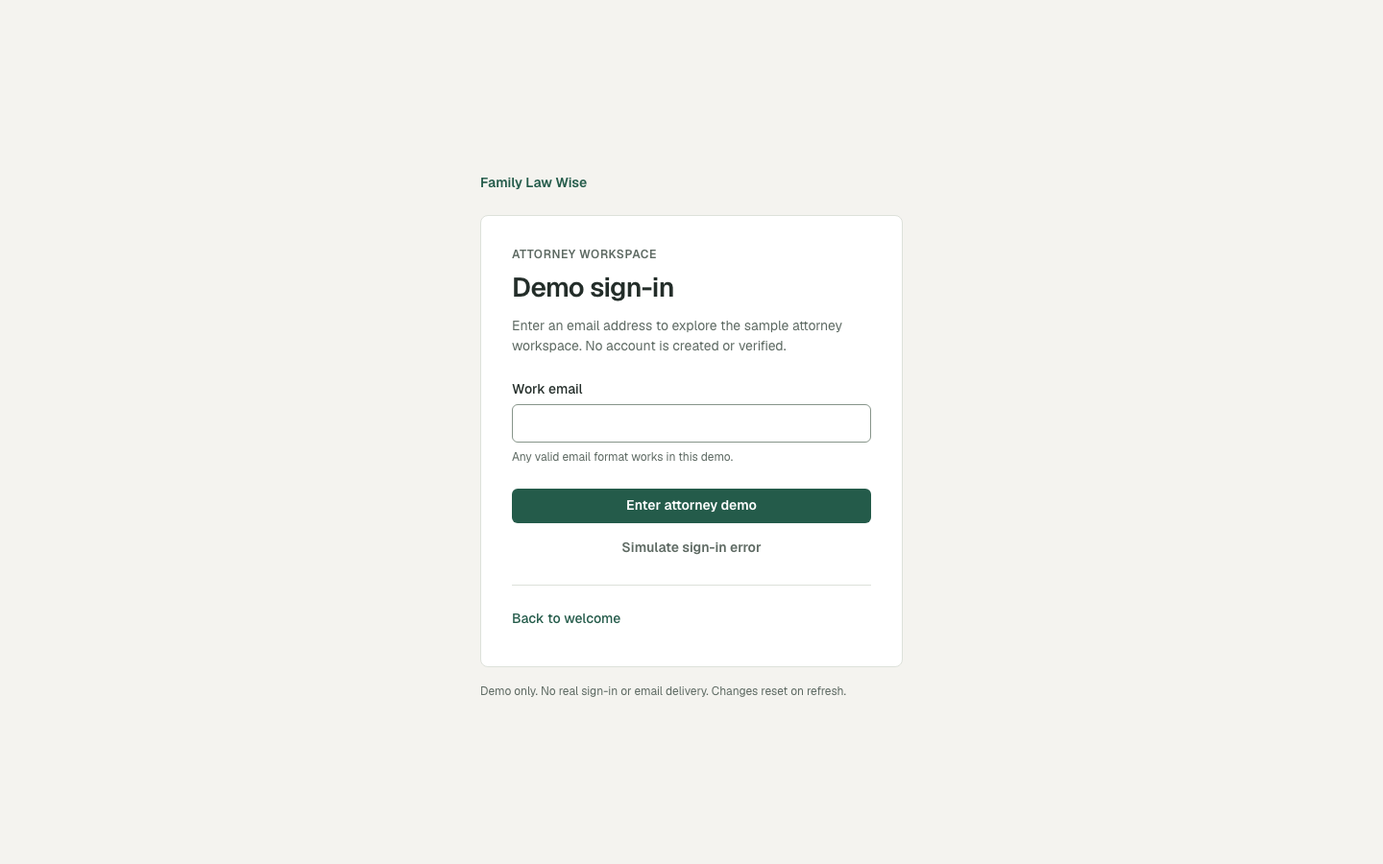
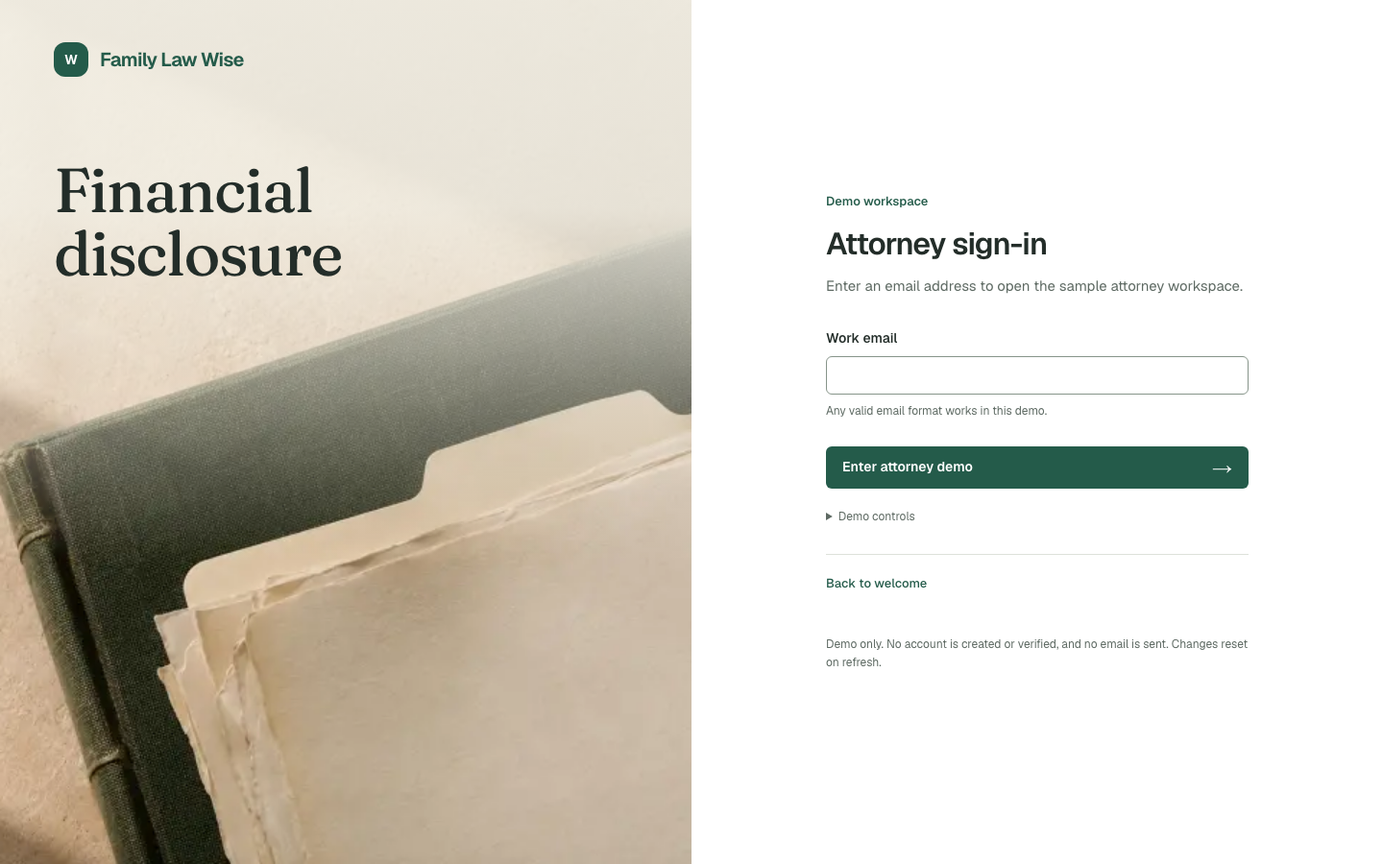
DESK-03: compose attorney sign-in and client invitation as focused desktop entries
Completed actions:
- Replace the centered stack with an editorial attorney sign-in, original still life, existing W branding, and a 440px task column.
- Move client firm, matter, and recipient context to the left while keeping code entry and recovery together on the right.
- Use 44px primary actions; place attorney QA simulation in keyboard-accessible Demo controls with Escape focus recovery.
- Refresh all 12 after screenshots; retain authentic original baselines and immutable previous PR evidence.

Verification performed:
- npm test: 43 passed; npm run lint, npm run build, git diff --check passed.
- Chromium: attorney empty/malformed/simulated error, keyboard retry; request/wrong/expired/reset client code; matching John/Sarah portals; invalid-link recovery.
- Native disclosure keyboard/Escape focus recovery; 440px task/40px input/44px primary; stable action within validation states.
- No horizontal overflow across 320, 375, 414, 768, 1280, 1440, 1920 widths; CSS 200 percent zoom resilience.
- Independent full-size desktop design and interaction review; compact photograph contrast corrected.

Remaining work and backend dependencies:
- Real authentication, invitation validity, OTP delivery/expiry enforcement, and email remain backend-owned.
- Browser-memory demo behavior remains; native browser zoom, Safari and Firefox were not rerun for this revision.

diff --git a/src/components/client-invitation.tsx b/src/components/client-invitation.tsx
@@ -1,6 +1,7 @@
 "use client";
 
 import Link from "next/link";
+import "./entry.css";
 import { useRouter } from "next/navigation";
 import { useEffect, useRef, useState, type FormEvent } from "react";
 import { Button } from "@/components/ui";
@@ -26,7 +27,7 @@ export function ClientInvitation({ token }: { token: string }) {
     setExpired(false);
     setCode("");
     setError("");
-    setMessage("Demo code ready: 123456. No email was sent.");
+    setMessage("Demo code is ready. No email was sent.");
     codeRef.current?.focus();
   }
 
@@ -48,27 +49,39 @@ export function ClientInvitation({ token }: { token: string }) {
   }
 
   return (
-    <main className="flex min-h-screen flex-col justify-center bg-canvas px-6 py-8">
-      <div className="mx-auto w-full max-w-[440px]">
-        <Link href="/" className="inline-flex min-h-9 items-center text-sm font-semibold text-brand">Family Law Wise</Link>
-        <section className="card mt-4 p-8">
-          <p className="text-xs font-semibold uppercase tracking-wider text-muted">Client invitation demo</p>
+    <main className="entry-entry">
+      <aside className="entry-orientation" aria-label="Invitation details">
+        <Link href="/" className="entry-wordmark"><span className="entry-brandMark" aria-hidden="true">W</span>Family Law Wise</Link>
+        <div className="entry-invitationIdentity">
+          <p className="entry-contextLabel">Client invitation</p>
           {matter ? (
             <>
-              <h1 className="mt-2 text-[28px] leading-9 font-semibold tracking-tight">You’re invited</h1>
-              <p className="mt-3 text-sm leading-[21px] text-muted">Review the sample invitation, then use a demo code to enter this matter.</p>
-              <dl className="mt-5 divide-y divide-line border-y border-line text-sm leading-[21px]">
-                <div className="grid grid-cols-[88px_minmax(0,1fr)] gap-3 py-3"><dt className="text-xs leading-[21px] text-muted">Law firm</dt><dd className="break-words font-medium">{state.firm.name}</dd></div>
-                <div className="grid grid-cols-[88px_minmax(0,1fr)] gap-3 py-3"><dt className="text-xs leading-[21px] text-muted">Matter</dt><dd className="break-words font-medium">{matterTitle(matter)}</dd></div>
-                <div className="grid grid-cols-[88px_minmax(0,1fr)] gap-3 py-3"><dt className="text-xs leading-[21px] text-muted">Invited client</dt><dd><span className="block break-words font-medium">{personName(clientParty(matter))}</span><span className="block break-all text-xs leading-[18px] text-muted">{clientParty(matter)?.email || "No email on file"}</span></dd></div>
+              <h2 className="entry-firmName">{state.firm.name || "Law firm details pending"}</h2>
+              <dl className="entry-identityList">
+                <div><dt>Matter</dt><dd>{matterTitle(matter)}</dd></div>
+                <div><dt>Invited client</dt><dd>{personName(clientParty(matter))}<span className="entry-recipientEmail">{clientParty(matter)?.email || "No email on file"}</span></dd></div>
               </dl>
-              <p id="demo-code-hint" className="mt-5 text-xs leading-[18px] text-muted">Sample code: <strong className="font-mono text-foreground">123456</strong>. This is a simulated check, and does not protect access to the demo.</p>
+            </>
+          ) : (
+            <h2 className="entry-editorialTitle">Let’s find your invitation.</h2>
+          )}
+        </div>
+        <p className="entry-identityFooter">Your invitation connects you to your attorney’s matter.</p>
+      </aside>
+      <div className="entry-taskSide">
+        <section className="entry-task" aria-labelledby="entry-title">
+          {matter ? (
+            <>
+              <p className="entry-contextLabel">Client demo</p>
+              <h1 id="entry-title" className="entry-taskTitle">You’re invited</h1>
+              <p className="entry-taskCopy">Check the invitation details, then use a demo code to open your matter.</p>
+              <div id="demo-code-hint" className="entry-sampleCode"><span>Sample code</span><strong>123456</strong></div>
               {!requested ? (
-                <Button variant="primary" className="mt-5 w-full" onClick={resetCode}>Request demo code</Button>
+                <Button variant="primary" className="entry-primary" onClick={resetCode}>Request demo code<span aria-hidden="true">→</span></Button>
               ) : (
-                <form className="mt-5" onSubmit={verify} noValidate>
+                <form className="entry-codeForm" onSubmit={verify} noValidate>
                   <div>
-                    <label htmlFor="invitation-code" className="mb-1.5 block text-sm font-medium">Six-digit demo code</label>
+                    <label htmlFor="invitation-code" className="entry-label">Six-digit demo code</label>
                     <input
                       ref={codeRef}
                       id="invitation-code"
@@ -82,14 +95,14 @@ export function ClientInvitation({ token }: { token: string }) {
                       aria-invalid={Boolean(error)}
                       aria-describedby={`demo-code-hint${error ? " invitation-code-error" : ""}`}
                     />
-                    <div className="mt-1.5 min-h-[42px] text-xs leading-[18px]">
+                    <div className="entry-fieldHelp">
                       {error ? <p id="invitation-code-error" role="alert" className="text-error-text">{error}</p> : <p className="text-muted">Enter the sample code above to continue.</p>}
                     </div>
                   </div>
-                  <Button type="submit" variant="primary" className="w-full">Enter client demo</Button>
-                  <div className="mt-2 flex flex-wrap justify-between gap-x-2">
-                    <Button type="button" variant="ghost" className="px-0" onClick={resetCode}>Reset demo code</Button>
-                    <Button type="button" variant="ghost" className="px-0" onClick={() => {
+                  <Button type="submit" variant="primary" className="entry-primary">Enter client demo<span aria-hidden="true">→</span></Button>
+                  <div className="entry-recovery">
+                    <Button type="button" variant="ghost" className="entry-reset" onClick={resetCode}>Reset demo code</Button>
+                    <Button type="button" variant="ghost" className="entry-simulation" onClick={() => {
                       setExpired(true);
                       setError("This demo code has expired. Reset the demo code to continue.");
                       setMessage("");
@@ -98,20 +111,22 @@ export function ClientInvitation({ token }: { token: string }) {
                   </div>
                 </form>
               )}
-              <p role="status" className="mt-3 min-h-[18px] text-xs leading-[18px] text-brand">{message}</p>
-              <div className="mt-4 border-t border-line pt-3">
-                <Link href={`/matters/${encodeURIComponent(token)}`} className="inline-flex min-h-9 items-center text-sm font-medium text-brand">Demo: back to attorney matter</Link>
+              <p role="status" className="entry-status">{message}</p>
+              <div className="entry-returnLink">
+                <Link href={`/matters/${encodeURIComponent(token)}`}>Demo: back to attorney matter</Link>
               </div>
             </>
           ) : (
             <>
-              <h1 className="mt-2 text-[28px] leading-9 font-semibold tracking-tight">Invitation not found</h1>
-              <p className="mt-3 text-sm leading-[21px] text-muted">This link does not match a matter in the current demo. Open your original invitation, or ask your law firm for a fresh link. Newly created demo matters reset on refresh.</p>
-              <Link href="/matters" className="btn btn-primary mt-6 w-full">Demo: back to matters</Link>
+              <p className="entry-contextLabel">Client demo</p>
+              <h1 id="entry-title" className="entry-taskTitle">Invitation not found</h1>
+              <p className="entry-taskCopy">This link does not match a matter in the current demo. Open your original invitation, or ask your law firm for a fresh link.</p>
+              <p className="entry-missingHint">Newly created demo matters reset on refresh.</p>
+              <Link href="/matters" className={`btn btn-primary entry-primary`}>Demo: back to matters<span aria-hidden="true">→</span></Link>
             </>
           )}
         </section>
-        <p className="mt-4 text-xs leading-[18px] text-muted">Demo only. No real sign-in or email delivery. Changes reset on refresh.</p>
+        <p className="entry-disclosure">Demo only. The code does not verify identity or protect access. No email is sent. Changes reset on refresh.</p>
       </div>
     </main>
   );

diff --git a/src/components/entry.css b/src/components/entry.css
@@ -1,0 +1,151 @@
+.entry-entry {
+  display: grid;
+  grid-template-columns: minmax(0, 1fr) minmax(0, 1fr);
+  min-height: 100dvh;
+  background: var(--surface);
+}
+
+.entry-orientation {
+  display: flex;
+  flex-direction: column;
+  min-width: 0;
+  padding: 40px 56px 0;
+  background: var(--canvas);
+}
+
+.entry-wordmark {
+  display: inline-flex;
+  align-items: center;
+  gap: 12px;
+  align-self: flex-start;
+  padding: 4px 0;
+  color: var(--brand);
+  font-size: 20px;
+  font-weight: 650;
+  letter-spacing: -0.7px;
+}
+
+.entry-brandMark { display: grid; width: 36px; height: 36px; place-items: center; border-radius: 12px; background: var(--brand); color: var(--surface); font-size: 14px; letter-spacing: 0; }
+.entry-demoControls { margin-top: 8px; }
+.entry-demoControls summary { display: list-item; width: fit-content; min-height: 44px; padding-top: 12px; color: var(--muted); cursor: pointer; font-size: 12px; }
+.entry-demoControls summary:focus-visible { outline: 2px solid var(--focus); outline-offset: 2px; }
+
+.entry-attorneyIntro { margin: 80px 0 36px; }
+
+.entry-contextLabel {
+  margin-bottom: 14px;
+  color: var(--muted);
+  font-size: 13px;
+  font-weight: 550;
+}
+
+.entry-editorialTitle,
+.entry-firmName {
+  max-width: 540px;
+  font-family: var(--font-fraunces), Georgia, serif;
+  font-size: 44px;
+  font-weight: 450;
+  letter-spacing: -1.5px;
+  line-height: 1.14;
+  overflow-wrap: anywhere;
+  text-wrap: balance;
+}
+
+.entry-photograph {
+  position: relative;
+  flex: 1;
+  min-height: 260px;
+  margin: 0 -56px;
+  overflow: clip;
+}
+
+.entry-taskSide {
+  display: flex;
+  flex-direction: column;
+  align-items: center;
+  justify-content: center;
+  min-width: 0;
+  padding: 48px;
+}
+
+.entry-task { width: 100%; max-width: 440px; }
+.entry-task .entry-contextLabel { color: var(--brand); }
+
+.entry-taskTitle {
+  font-size: 32px;
+  font-weight: 600;
+  letter-spacing: -1px;
+  line-height: 40px;
+  text-wrap: balance;
+}
+
+.entry-taskCopy {
+  margin-top: 12px;
+  color: var(--muted);
+  font-size: 15px;
+  line-height: 24px;
+  text-wrap: pretty;
+}
+
+.entry-form { margin-top: 32px; }
+.entry-label { display: block; margin-bottom: 8px; font-size: 14px; font-weight: 550; }
+.entry-fieldHelp { min-height: 54px; padding-top: 8px; font-size: 12px; line-height: 18px; }
+.entry-primary { width: 100%; height: 44px; justify-content: space-between; padding: 0 16px; }
+.entry-primary span { font-size: 20px; font-weight: 400; }
+.entry-simulation { height: 44px; padding: 0; font-size: 12px; font-weight: 450; }
+.entry-simulation:hover { background: transparent; text-decoration: underline; }
+.entry-returnLink { margin-top: 16px; border-top: 1px solid var(--line); padding-top: 8px; }
+.entry-returnLink a { display: inline-flex; min-height: 44px; align-items: center; color: var(--brand); font-size: 13px; font-weight: 500; }
+.entry-returnLink a:hover { text-decoration: underline; }
+.entry-disclosure { width: 100%; max-width: 440px; margin-top: 32px; color: var(--muted); font-size: 12px; line-height: 19px; }
+
+.entry-invitationIdentity { margin-top: auto; margin-bottom: auto; padding: 64px 0; }
+.entry-identityList { margin-top: 40px; border-top: 1px solid var(--line); }
+.entry-identityList > div { display: grid; grid-template-columns: 104px minmax(0, 1fr); gap: 24px; border-bottom: 1px solid var(--line); padding: 24px 0; }
+.entry-identityList dt { padding-top: 3px; color: var(--muted); font-size: 13px; }
+.entry-identityList dd { min-width: 0; font-size: 18px; font-weight: 500; overflow-wrap: anywhere; }
+.entry-recipientEmail { display: block; margin-top: 4px; color: var(--muted); font-size: 14px; font-weight: 400; }
+.entry-identityFooter { padding-bottom: 40px; color: var(--muted); font-size: 13px; }
+.entry-sampleCode { display: flex; align-items: center; justify-content: space-between; margin: 28px 0 24px; padding: 12px 16px; background: var(--surface-subtle); color: var(--muted); font-size: 13px; }
+.entry-sampleCode strong { color: var(--foreground); font-family: var(--font-mono); font-size: 20px; font-weight: 500; letter-spacing: 4px; }
+.entry-recovery { display: flex; justify-content: space-between; flex-wrap: wrap; gap: 0 16px; margin-top: 8px; }
+.entry-reset { height: 44px; padding: 0; color: var(--brand); font-size: 13px; font-weight: 500; }
+.entry-reset:hover { background: transparent; text-decoration: underline; }
+.entry-status { min-height: 18px; margin-top: 8px; color: var(--brand); font-size: 12px; line-height: 18px; }
+.entry-missingHint { margin: 20px 0 28px; color: var(--muted); font-size: 13px; line-height: 21px; }
+
+@media (min-width: 900px) {
+  .entry-attorneyOrientation { position: relative; isolation: isolate; overflow: clip; }
+  .entry-attorneyOrientation .entry-photograph { position: absolute; inset: 0; min-height: 100%; margin: 0; z-index: -1; }
+  .entry-photograph img { object-position: 60% 50%; }
+  .entry-photograph::after { content: ""; position: absolute; inset: 0; background: linear-gradient(180deg, #f2efe5f2 0%, #f2efe5e6 24%, #f2efe594 40%, #f2efe500 65%); }
+  .entry-attorneyIntro { margin-top: clamp(70px, 9vh, 130px); }
+  .entry-attorneyIntro .entry-editorialTitle { max-width: 9ch; font-size: clamp(54px, 4.5vw, 68px); line-height: 1.02; }
+}
+
+@media (min-width: 1600px) {
+  .entry-orientation { padding-right: 80px; padding-left: 80px; }
+  .entry-photograph { margin-right: -80px; margin-left: -80px; }
+}
+
+@media (max-width: 1100px) {
+  .entry-orientation { padding-right: 32px; padding-left: 32px; }
+  .entry-photograph { margin-right: -32px; margin-left: -32px; }
+  .entry-editorialTitle, .entry-firmName { font-size: 36px; }
+  .entry-taskSide { padding-right: 32px; padding-left: 32px; }
+  .entry-identityList > div { grid-template-columns: 88px minmax(0, 1fr); gap: 16px; }
+}
+
+@media (max-width: 899px) {
+  .entry-entry { grid-template-columns: minmax(0, 1fr); }
+  .entry-orientation { padding: 24px; }
+  .entry-attorneyIntro { display: none; }
+  .entry-editorialTitle, .entry-firmName { font-size: 32px; letter-spacing: -1px; }
+  .entry-photograph { display: none; }
+  .entry-invitationIdentity { padding: 32px 0 0; }
+  .entry-identityList { margin-top: 24px; }
+  .entry-identityList > div { padding: 16px 0; }
+  .entry-identityFooter { display: none; }
+  .entry-taskSide { padding: 40px 24px; }
+  .entry-disclosure { margin-top: 32px; }
+}

diff --git a/src/components/attorney-sign-in.tsx b/src/components/attorney-sign-in.tsx
@@ -1,6 +1,8 @@
 "use client";
 
 import Link from "next/link";
+import Image from "next/image";
+import "./entry.css";
 import { useRouter } from "next/navigation";
 import { useRef, useState, type FormEvent } from "react";
 import { Button } from "@/components/ui";
@@ -22,16 +24,24 @@ export function AttorneySignIn() {
   }
 
   return (
-    <main className="flex min-h-screen flex-col justify-center bg-canvas px-6 py-8">
-      <div className="mx-auto w-full max-w-[440px]">
-        <Link href="/" className="inline-flex min-h-9 items-center text-sm font-semibold text-brand">Family Law Wise</Link>
-        <section className="card mt-4 p-8">
-          <p className="text-xs font-semibold uppercase tracking-wider text-muted">Attorney workspace</p>
-          <h1 className="mt-2 text-[28px] leading-9 font-semibold tracking-tight">Demo sign-in</h1>
-          <p className="mt-3 text-sm leading-[21px] text-muted">Enter an email address to explore the sample attorney workspace. No account is created or verified.</p>
-          <form className="mt-6" onSubmit={submit} noValidate>
+    <main className="entry-entry">
+      <aside className="entry-orientation entry-attorneyOrientation" aria-label="Family Law Wise">
+        <Link href="/" className="entry-wordmark"><span className="entry-brandMark" aria-hidden="true">W</span>Family Law Wise</Link>
+        <div className="entry-attorneyIntro">
+          <h2 className="entry-editorialTitle">Financial disclosure</h2>
+        </div>
+        <div className="entry-photograph">
+          <Image src="/entry-still-life.webp" alt="" fill sizes="(min-width: 900px) 50vw, 100vw" priority className="object-cover" />
+        </div>
+      </aside>
+      <div className="entry-taskSide">
+        <section className="entry-task" aria-labelledby="entry-title">
+          <p className="entry-contextLabel">Demo workspace</p>
+          <h1 id="entry-title" className="entry-taskTitle">Attorney sign-in</h1>
+          <p className="entry-taskCopy">Enter an email address to open the sample attorney workspace.</p>
+          <form className="entry-form" onSubmit={submit} noValidate>
             <div>
-              <label htmlFor="attorney-email" className="mb-1.5 block text-sm font-medium">Work email</label>
+              <label htmlFor="attorney-email" className="entry-label">Work email</label>
               <input
                 ref={emailRef}
                 id="attorney-email"
@@ -43,21 +53,29 @@ export function AttorneySignIn() {
                 aria-invalid={Boolean(error)}
                 aria-describedby={error ? "sign-in-error" : "sign-in-hint"}
               />
-              <div className="mt-1.5 min-h-[42px] text-xs leading-[18px]">
+              <div className="entry-fieldHelp">
                 {error ? <p id="sign-in-error" role="alert" className="text-error-text">{error}</p> : <p id="sign-in-hint" className="text-muted">Any valid email format works in this demo.</p>}
               </div>
             </div>
-            <Button type="submit" variant="primary" className="w-full">Enter attorney demo</Button>
-            <Button type="button" variant="ghost" className="mt-2 w-full" onClick={() => {
-              setError("Simulated sign-in error. No authentication was attempted. Try entering the demo again.");
-              emailRef.current?.focus();
-            }}>Simulate sign-in error</Button>
+            <Button type="submit" variant="primary" className="entry-primary">Enter attorney demo<span aria-hidden="true">→</span></Button>
+            <details className="entry-demoControls" onKeyDown={(event) => {
+              if (event.key === "Escape") {
+                event.currentTarget.open = false;
+                event.currentTarget.querySelector("summary")?.focus();
+              }
+            }}>
+              <summary>Demo controls</summary>
+              <Button type="button" variant="ghost" className="entry-simulation" onClick={() => {
+                setError("Simulated sign-in error. No authentication was attempted. Try entering the demo again.");
+                emailRef.current?.focus();
+              }}>Simulate sign-in error</Button>
+            </details>
           </form>
-          <div className="mt-5 border-t border-line pt-4">
-            <Link href="/" className="inline-flex min-h-9 items-center text-sm font-medium text-brand">Back to welcome</Link>
+          <div className="entry-returnLink">
+            <Link href="/">Back to welcome</Link>
           </div>
         </section>
-        <p className="mt-4 text-xs leading-[18px] text-muted">Demo only. No real sign-in or email delivery. Changes reset on refresh.</p>
+        <p className="entry-disclosure">Demo only. No account is created or verified, and no email is sent. Changes reset on refresh.</p>
       </div>
     </main>
   );

diff --git a/.github/review-evidence/DESK-03/README.md b/.github/review-evidence/DESK-03/README.md
@@ -25,19 +25,21 @@ Authentic before captures were taken on unmodified base `b31143451826e0aa2de7d1a
 | Attorney, compact desktop | [Before](before-attorney-empty-1280.png) | [After](after-attorney-empty-1280.png) |
 | Invitation code, compact desktop | [Before](before-invitation-code-1280.png) | [After](after-invitation-code-1280.png) |
 
-The forms now use centered 440px white sheets on the warm-gray canvas, 28px titles, 40px fields and 36px primary actions. Invitation context is an aligned list. Adjacent help/error space keeps the primary action in place when validation changes. Simulation controls are secondary; invalid-link copy gives client recovery guidance and labels attorney walkthrough links as demo-only. At 1280×720 the longer invitation scrolls naturally; the primary action remains visible and the return link remains reachable.
+The attorney entry now uses a two-column desktop composition: the existing W brand and a serif financial-disclosure heading over an original folder-and-paper still life on the left; a focused 440px task column on the right. The primary action is 44px tall. QA simulation is inside an optional “Demo controls” disclosure with keyboard opening and Escape-to-close focus recovery. Below 900px the decorative introduction is omitted so the form follows the brand immediately.
+
+The invitation uses the same split, with the actual shared-store firm, matter and recipient on the left and the code/request/error/recovery task on the right. Missing invitations have specific recovery guidance. Nothing adds authentication or email delivery.
+
+The earlier PR revision is preserved in immutable commit `b71645b43f28ba0db016ff883aeec32a2bec1a51`: its `after-*.png` files are the last-reviewed comparison. Before these edits, a fresh 12-state browser capture of that clean revision matched those committed PNGs byte for byte. Duplicate captures were discarded; the original baseline images remain unchanged. The current `after-*.png` files show the revised source.
 
 ## Verification
 
 - `npm test`: 43 passed.
-- `npm run lint`: passed.
-- `npm run build`: passed; existing remote Google Fonts require build network access.
-- `git diff --check`: passed.
-- Chromium interactions passed: empty/malformed email, simulated failure, correction and Enter-key navigation to `/overview`; keyboard code request, empty/short/nonnumeric/wrong code, expiry even with the correct code, reset clears error/value and focuses the field, `123456` enters the matching John and Sarah portals; invalid link recovery returns to matters.
-- Runtime measurements: sheet 440px, input 40px, primary 36px; primary Y position unchanged across every validation state in each form.
-- No horizontal overflow at 1280×720, 1280×800, 1440×900 or 1920×1080. Focus outlines and scroll access to final return links checked.
-- 200% CSS zoom resilience checked; native browser zoom, Safari and Firefox were not exercised.
-- No browser page errors in before/after or functional checks.
-- An independent reviewer inspected the actual desktop forms and exercised entry, validation, expiry/reset and invalid-link paths; no concrete blocker found.
+- `npm run lint`, `npm run build`, `git diff --check`: passed.
+- Chromium interactions: empty/malformed email, simulated failure, correction and Enter-key navigation to `/overview`; keyboard Demo controls opening, Escape closes and returns focus; keyboard code request, empty/short/nonnumeric/wrong code, expiry blocks even the correct code, reset clears error/value and focuses the field, `123456` enters the matching John and Sarah portals; invalid-link recovery returns to matters.
+- Runtime measurements: 440px task column, 40px input, 44px primary; adjacent errors retain the action position within the same disclosure state.
+- No horizontal overflow at 1280×720, 1280×800, 1440×900, 1920×1080, 320×740, 375×812, 414×896 or 768×1024. Focus outlines and final return-link access checked.
+- 200% CSS zoom resilience checked; native browser zoom, Safari and Firefox were not exercised for this revision.
+- No browser page errors in the 12-state capture or functional sweep.
+- Independent reviewer inspected actual desktop screens and exercised attorney entry, client validation, expiry/reset and matching portal entry. Final compact sign-in text was simplified after the reviewer identified a contrast weakness over the photograph.
 
-Email and code entry remain existing demo exercises: any valid email format and sample code `123456` work. They do not authenticate an identity, send email or protect access. Real sessions, invitation validity and email delivery remain backend dependencies.
+Email and code entry remain existing demo exercises: any valid email format and sample code `123456` work. They do not authenticate identity, send email or protect access. Real sessions, invitation validity and email delivery remain backend dependencies.
